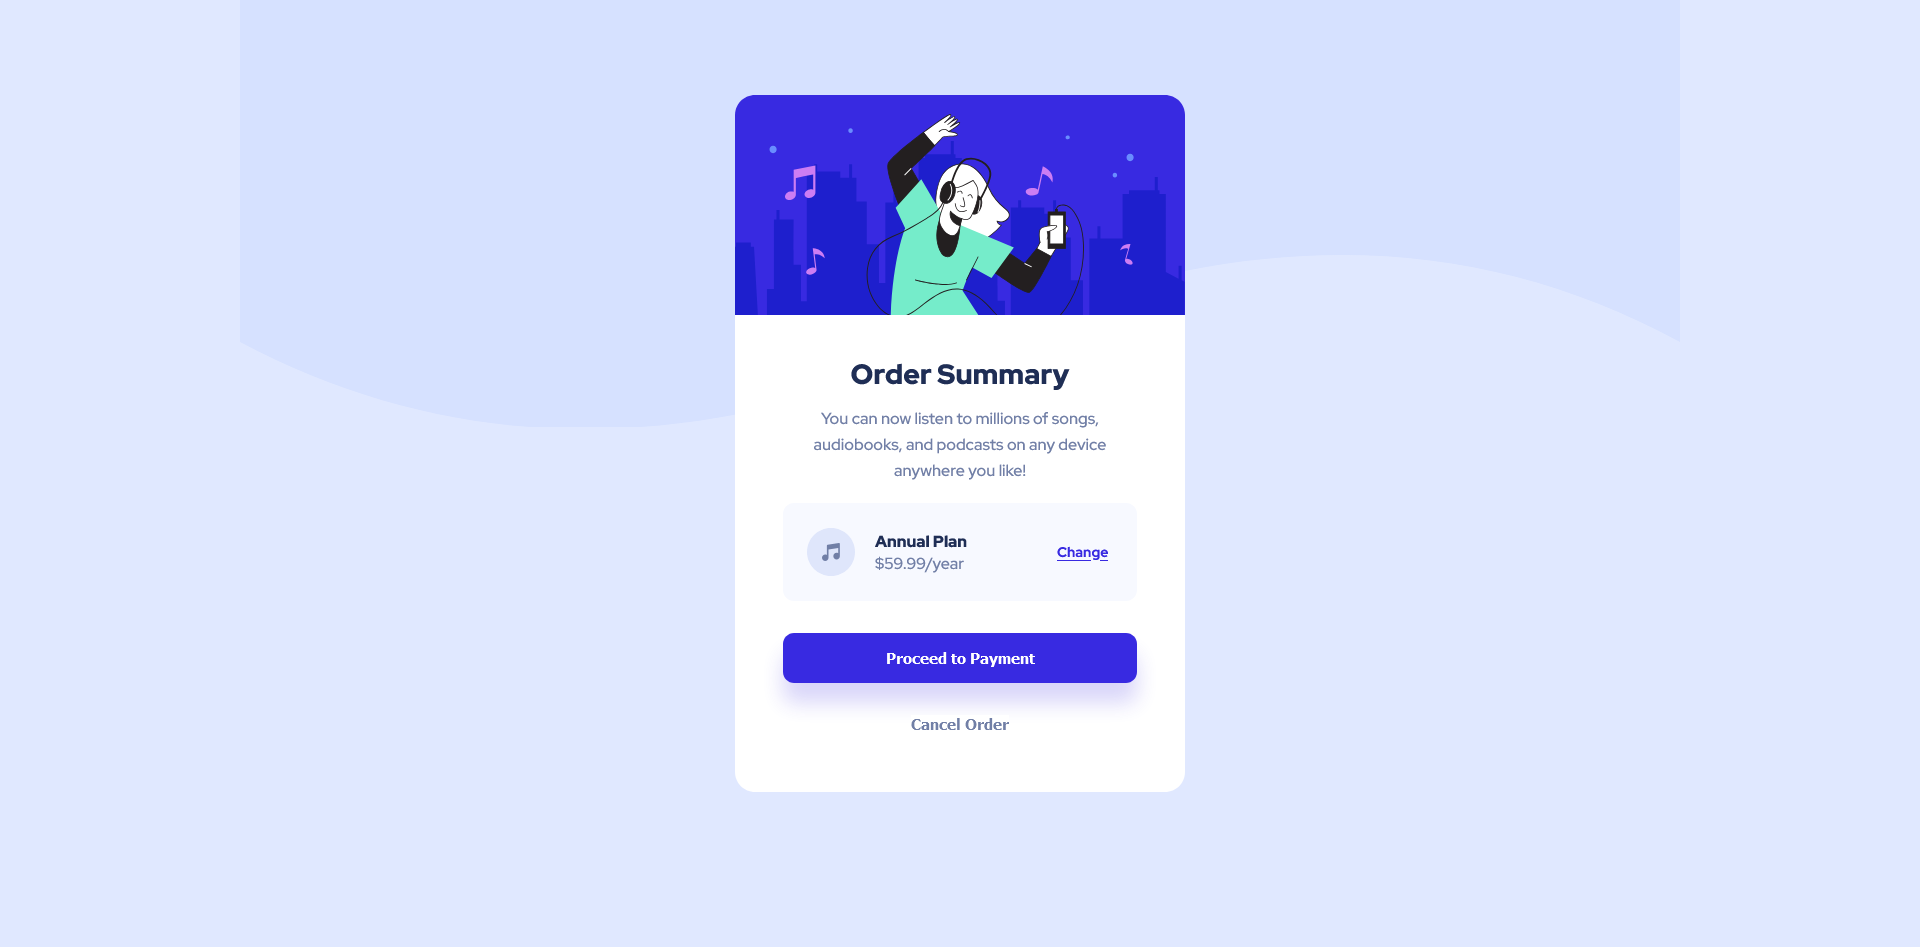
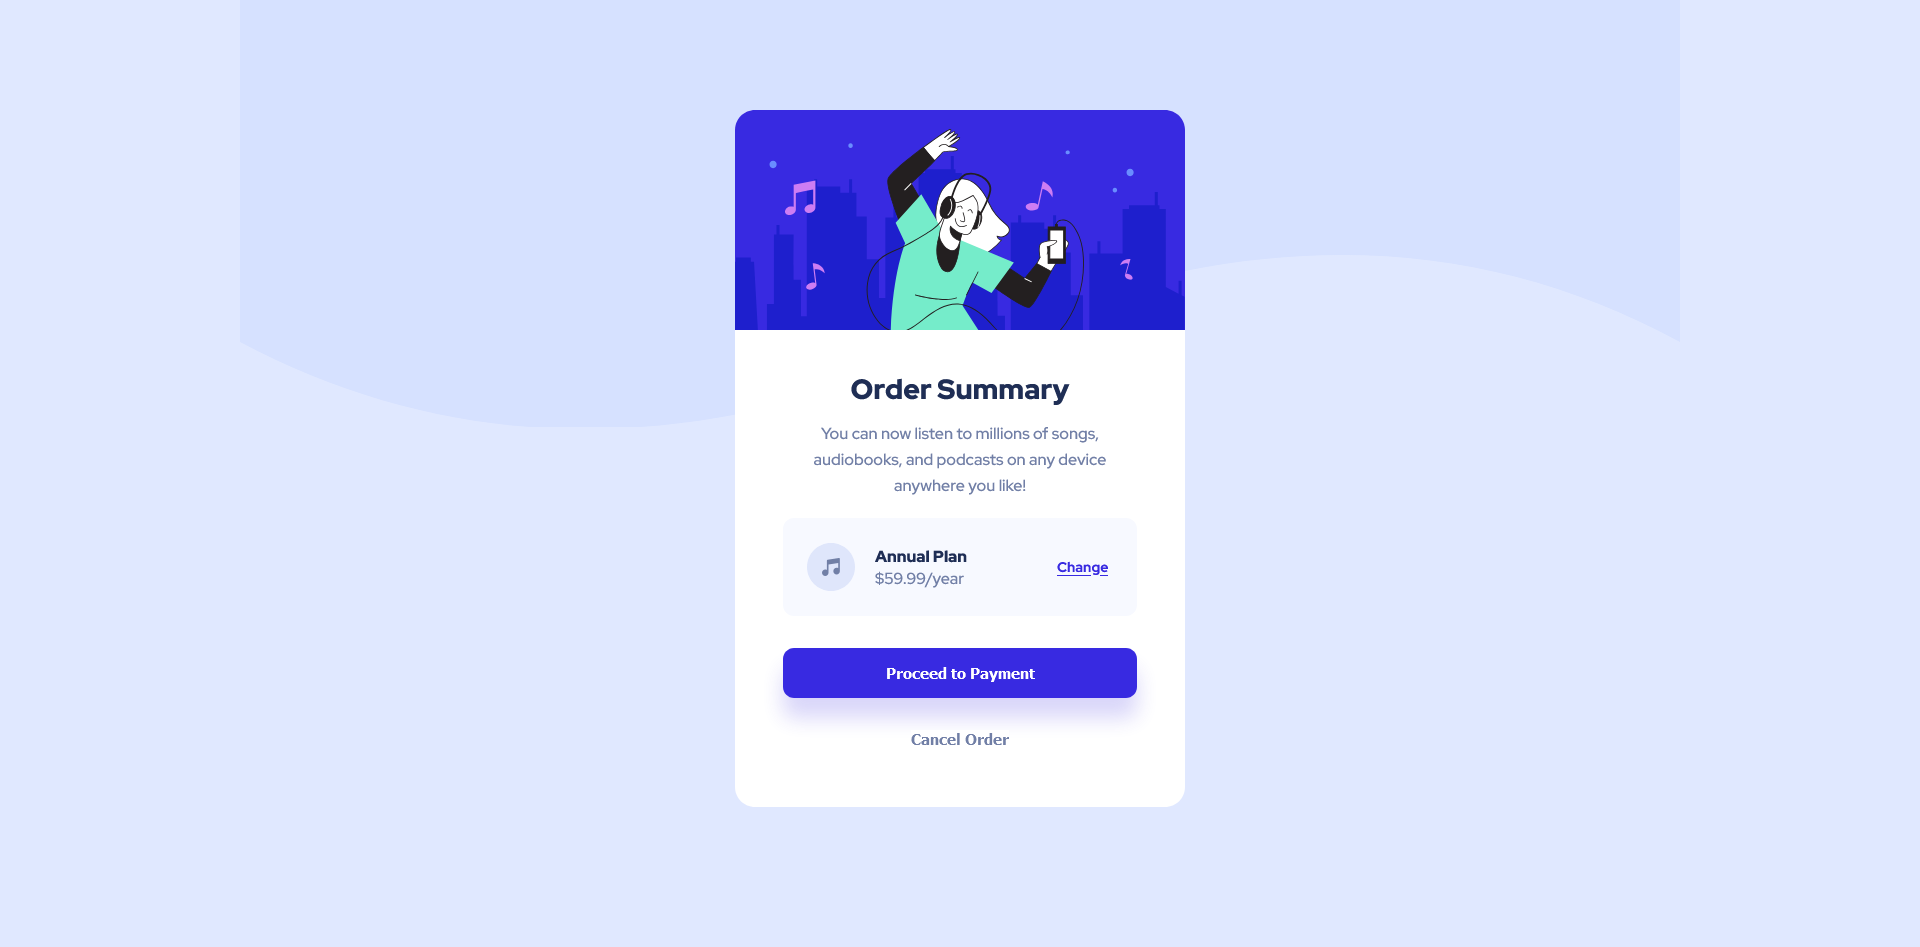
Updated padding-top

diff --git a/css/style.css b/css/style.css
@@ -91,7 +91,7 @@ body {
   background-color: #e0e8ff;
   min-height: 100vh;
   font-family: "Red Hat Display", sans-serif;
-  padding-top: 11rem;
+  padding-top: 10.5rem;
   display: flex;
   flex-direction: row;
   justify-content: center;

diff --git a/sass/main.scss b/sass/main.scss
@@ -44,8 +44,8 @@ body {
 	background-color: $bg-body;
 	min-height: 100vh;
 	font-family: "Red Hat Display", sans-serif;
-	// padding-top: 7.5rem;
-	padding-top: 11rem;
+
+	padding-top: 10.5rem;
 
 	@include flex-settings($align: none);
 
